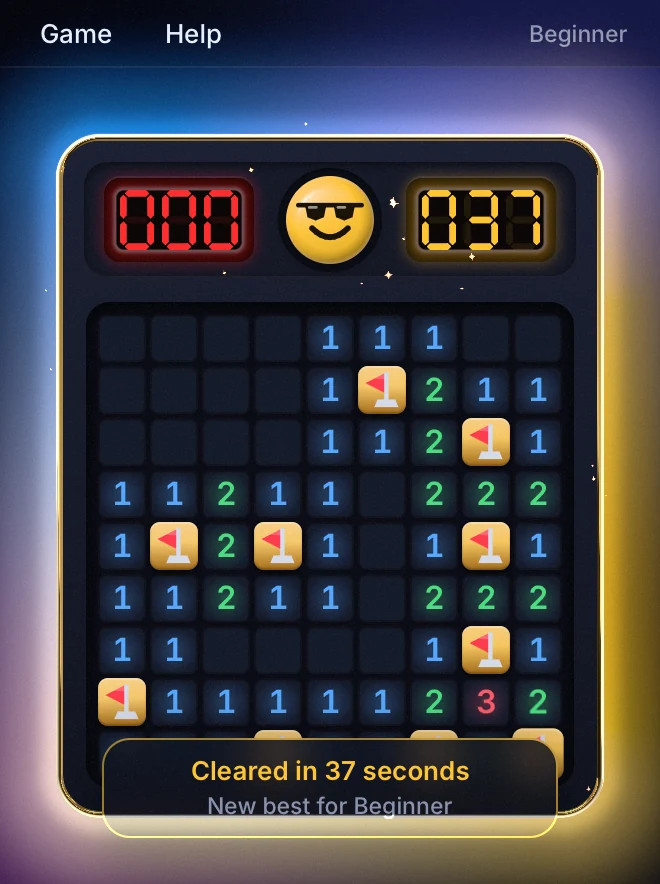
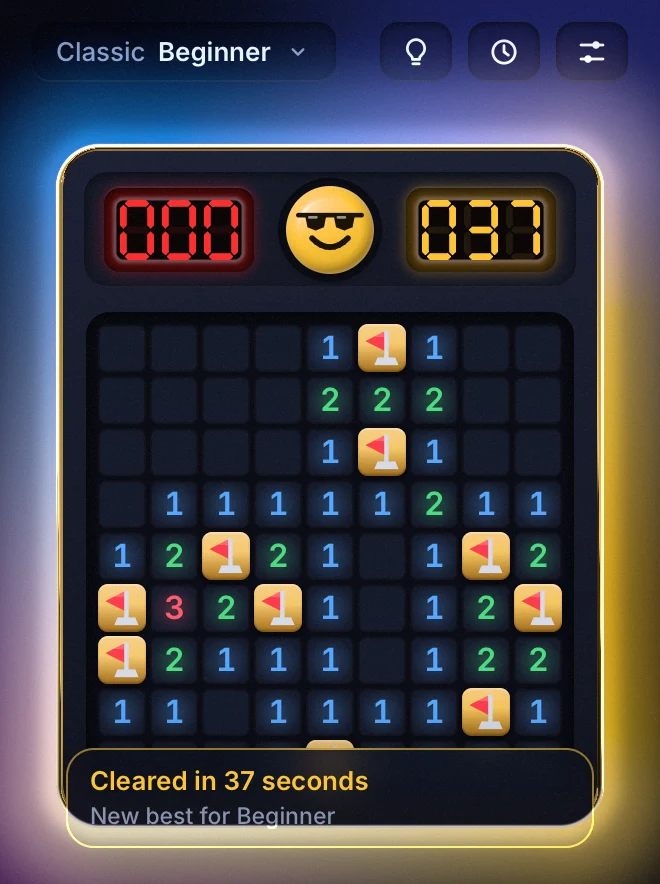
README and media describe the current game
- New stills and animations from the headless scenes: the toolbar,
  the Hint stepped through to Apply, a Review on a missed deduction,
  Max Guess's 50/50 count, the hint in 简体中文, generation's sweep,
  History, and fresh loss, Color off, win and picker shots. The old
  GIFs showed the XP menu bar; all motion is now animated WebP.
- play.json taps cells in the toolbar layout so the first click opens
  an area; hint.json drives the Hint video.
- The review scene selects a missed deduction instead of the opening.
- README: intro, Play (toolbar buttons, Hint, History, Review, H key,
  where History is saved), panels in the motion notes, and how each
  picture is made.

Claude-Session: https://claude.ai/code/session_015t5rc5SNnFMdEsgfNtuQ7n

diff --git a/src/lib.rs b/src/lib.rs
@@ -235,7 +235,7 @@ const SCENES: &[(&str, fn(&mut App))] = &[
         a.set_lang(strings::Lang::ZhCn);
     }),
     // A Review of an Intermediate game played by a bot that pauses and guesses where it
-    // needn't: a needless guess's reason beside the field, the timeline under it.
+    // needn't: a missed deduction's reason beside the field, the timeline under it.
     ("review", |a| {
         // The first seed whose game runs long enough to have a few markers.
         for seed in 1.. {
@@ -246,7 +246,10 @@ const SCENES: &[(&str, fn(&mut App))] = &[
             }
         }
         a.open_review(0);
-        a.review_select(0);
+        // A missed deduction midway shows more of the field than the opening guess.
+        let markers = &a.review.as_ref().unwrap().markers;
+        let k = markers.iter().position(|m| matches!(m.kind, review::Kind::Missed { .. })).unwrap_or(0);
+        a.review_select(k);
     }),
     // A loss through the App, so History has it: the banner offers a Review.
     ("lost-review", |a| {

diff --git a/README.md b/README.md
@@ -2,23 +2,38 @@
 
 Minesweeper with the rules and quirks of the Windows classic, drawn on the GPU with
 [Rune](https://github.com/anomalyco/rune): springs, ripples, liquid-metal chrome, plastic, fire
-and shockwaves.
+and shockwaves. Beyond Classic, it has three modes that lay the field after your first click
+(Gentle No Guess, No Guess, Max Guess), a Hint that teaches the next move in four steps,
+a History of every game with a Review of any of them, and the whole game in English and
+简体中文.
 
 <p align="center">
-  <img src="docs/play.gif" alt="Opening a field" width="330">
-  <img src="docs/boom.gif" alt="Stepping on a mine" width="378">
+  <img src="docs/play.webp" alt="Opening a field, flagging, a press dragged across the field, then F2 and a new field" width="330">
+  <img src="docs/boom.webp" alt="Stepping on a mine: the shockwave and the chain of the other mines" width="378">
 </p>
 
 <p align="center">
-  <img src="docs/expert.webp" alt="Expert" width="100%">
+  <img src="docs/expert.webp" alt="Expert, with the toolbar: the Mode and Level chip, then Hint, History and Settings" width="100%">
 </p>
 <p align="center">
-  <img src="docs/lost.webp" alt="A lost game: the mine burns and the rest come up" width="49%">
-  <img src="docs/mono.webp" alt="Color off" width="49%">
+  <img src="docs/hint.webp" alt="H pressed four times: the technique, the numbers it reads, the cell, the reason; then Apply flags the mine" width="100%">
 </p>
 <p align="center">
-  <img src="docs/won.webp" alt="A won game" width="40%">
-  <img src="docs/picker.webp" alt="The Mode and Level picker" width="40%">
+  <img src="docs/review.webp" alt="A Review: a missed deduction's reason beside the field, the timeline of markers under it" width="49%">
+  <img src="docs/max-guess.webp" alt="Max Guess: the tab on the console says how many forced 50/50s the field holds" width="49%">
+</p>
+<p align="center">
+  <img src="docs/zh-cn.webp" alt="The same hint in 简体中文" width="49%">
+  <img src="docs/generating.webp" alt="An Expert No Guess field generating: the face thinks, and past 600 ms a band of light sweeps the hidden tiles" width="49%">
+</p>
+<p align="center">
+  <img src="docs/lost.webp" alt="A lost game: the mine burns and the rest come up" width="32%">
+  <img src="docs/mono.webp" alt="Color off" width="32%">
+  <img src="docs/history.webp" alt="History, filtered by mode and level, with the fastest win on top" width="32%">
+</p>
+<p align="center">
+  <img src="docs/won.webp" alt="A won game and a new best: the timer turns gold" width="40%">
+  <img src="docs/picker.webp" alt="The picker: four modes, four levels, Custom sizes typed in place" width="40%">
 </p>
 
 ## What moves, and what doesn't
@@ -31,8 +46,9 @@ that couldn't were cut.
   over at most 300 ms. Numbers are there at once; nothing makes you wait to read them. The
   selector sits on the square under the pointer, with no glide to lag behind it.
 - **Flags**: a 150 ms fade. **Keys** (arrows, Space, F, F2, Escape) never animate.
-- **Panels** (the Level picker, Settings) are opened now and then, so they slide down from the
-  toolbar in about 0.2 s; Escape closes one in the same frame.
+- **Panels** (the picker, History, Settings) are opened now and then, so they slide down from the
+  toolbar in about 0.2 s; Escape closes one in the same frame. The Hint's callout changes in place
+  as H steps it.
 - **A new field** from the face or the picker deals in from the centre in under half a second;
   from F2 it's simply there, old field gone in the same frame.
 - **A field that takes its time** (the no-guess modes generate after the first click, off the UI thread):
@@ -169,7 +185,7 @@ The same game as Windows Minesweeper:
 
 - **Left click** opens a square. Press and drag: the square under the pointer stays sunk until you let go, and the face gasps.
 - **Right click** cycles flag → `?` → blank (`?` only with *Marks* on in Settings).
-- **Keyboard**: arrows move the selector, Space opens (or chords on a number), F flags, F2 starts again, Escape closes a panel.
+- **Keyboard**: arrows move the selector, Space opens (or chords on a number), F flags, H asks for a hint, F2 starts again, Escape closes a panel, the hint or a review.
 - **Touch** (the web build): the flag toggle on the toolbar makes taps place flags while it is lit; a tap on a number chords.
 - **Chord**: on a number whose flags are all placed, press both buttons (or the middle one) to open its other neighbours. A wrong flag loses.
 - Mines come from the Microsoft C runtime's `rand()`, seeded once per session from a millisecond clock, as `srand(GetTickCount())`: a column, then a row, each `rand() % n`, redrawn while the square already holds a mine.
@@ -177,12 +193,16 @@ The same game as Windows Minesweeper:
 - The mine counter is mines less flags and goes negative. The timer starts on the first click, at 1, and stops at 999.
 - Losing shows every mine, crosses out wrong flags and marks the one you hit in red. Winning flags the rest.
 - **Modes**: Classic (原版) is everything above, unchanged. In **No Guess** (无猜) no mines exist until your first click; the field is then laid with the 3×3 around the click clear, so it always opens an area, and redrawn until perfect logic (the mine count included) can finish it from there. The field is fully determined by mode, level, seed and first click. It is generated off the UI thread (a thread on desktop, a web worker in the browser), so the window never freezes; F2 or the face cancels it for a fresh field. The timer starts once the field is ready. **Gentle No Guess** (简单无猜) works the same, but only keeps fields that one number, or two overlapping numbers, at a time can finish, with the mine count near the end: pattern play always wins. **Max Guess** (死猜挑战) lays its field the same way, then searches for one that forces a perfect player into as many **true 50/50s** as it can: two cells holding one mine that no number, now or later, can ever tell apart. Everything between them is logic. Once your first click has laid the field, a tab on the console's top edge shows how many it holds; the result banner says how many you got through and, when you lost on one, that it was forced. There is no undo.
-- **Toolbar**: the chip on the left shows the Mode and Level and opens the picker: a row for the Mode, then Beginner (9×9, 10), Intermediate (16×16, 40), Expert (30×16, 99) or Custom, whose width (9–30), height (9–24) and mines (up to (w−1)(h−1)) are typed in place; Enter or the Custom row starts it. Picking starts a new field at once.
-- **Settings** (the button on the right): Marks (?), Color and Language (English or 简体中文). The first launch follows the system language (the browser's on the web): any Chinese locale means 简体中文. Chinese is drawn in Xiaomi's MiSans and Latin letters and digits in Inter, both built in, so Chinese shows on any machine and in the browser.
+- **Toolbar**: the chip on the left shows the Mode and Level and opens the picker: the four Modes two to a row, then Beginner (9×9, 10), Intermediate (16×16, 40), Expert (30×16, 99) or Custom, whose width (9–30), height (9–24) and mines (up to (w−1)(h−1)) are typed in place; Enter or the Custom row starts it. Picking starts a new field at once. On the right: the flag toggle (touch only), then Hint, History and Settings.
+- **Hint** (the bulb, or H), in every mode and as often as you like, with no time penalty. Each press goes one step deeper: the technique and its grade (Easy, Medium, Hard, Evil), then the numbers it reads ringed, then the cell and whether it is safe or a mine, then the reason in words with Apply, which plays the move. Any move starts the next hint afresh; Escape or × closes it. It reads only the open numbers, never your flags, except to say first when a flag is provably wrong. It names the pattern when there is one (1-1, 1-2, 1-2-1, 1-2-2-1, holes, triangles, the corners, reduction, mine counting and the rest of minesweeper.online's catalogue, with the Chinese community's 定式 names in 简体中文), and otherwise explains with the fewest numbers that prove the cell. When nothing can be proven it teaches the guess: a true 50/50 (take it now), a cell that can only lead to another guess (avoid it), a few countable arrangements, fewer-mine arrangements, a cell likely to open an area, and in Classic the top-left corner that XP's first-click move makes riskier. If no such reason applies it says only that a guess is needed. It never shows a probability. A game with a hint shown is recorded as assisted.
+- **History** (the clock): every game won, lost or abandoned after its first click, newest first, filtered by Mode and Level, with the fastest win for that Mode and Level on top. Each row has the date and time, result, seconds, 3BV, clicks, hints and forced guesses faced and survived. Beat the fastest win and the timer turns gold. Records are kept without limit.
+- **Review**: the result banner's Review button (a tab on the console's bottom rim once the banner leaves), or any row in History, replays that game on the field. The timeline under it marks needless guesses, missed deductions, forced guesses and clicks a chord would have saved; ‹ › or the left and right arrows step, and selecting a marker shows the field at that moment with the reason in the hint's words. It also gives 3BV, 3BV/s and efficiency (3BV per click). Escape, F2 or × leaves it; a review never changes the record.
+- **Settings** (the sliders): Marks (?), Color and Language (English or 简体中文). The first launch follows the system language (the browser's on the web): any Chinese locale means 简体中文. Chinese is drawn in Xiaomi's MiSans and Latin letters and digits in Inter, both built in, so Chinese shows on any machine and in the browser.
 - The face starts a new game. `xyzzy`, then Shift, turns the old corner-pixel cheat on or off.
 
-Settings are saved to `%APPDATA%\runesweeper`, `~/Library/Application Support/runesweeper`,
-`~/.config/runesweeper`, or the browser's local storage.
+Settings, History (`history.txt`, one game per line) and the game in play are saved to
+`%APPDATA%\runesweeper`, `~/Library/Application Support/runesweeper`, `~/.config/runesweeper`, or
+the browser's local storage.
 
 `--plain` (desktop) or `?plain` (web) turns the shader effects off for weak GPUs.
 
@@ -207,9 +227,15 @@ Every Rune app renders without a window, which is how the pictures above were ma
 
 ```sh
 runesweeper --list-scenes
-runesweeper --snap expert.png --scene expert --size 868x598 --scale 2
-runesweeper --scene beginner --script scripts/play.json --video play.mp4
+runesweeper --snap expert.png --scene expert --size 868x598 --scale 2 --at 3
+runesweeper --scene beginner --script scripts/play.json --size 330x442 --video play.mp4
+runesweeper --scene intermediate --script scripts/hint.json --size 868x598 --keys --video hint.mp4
 ```
+
+The stills are `expert`, `review`, `max-guess` and `hint-zh-cn` at 868×598, `lost`, `mono` and
+`history` at 504×598, and `won` and `picker` at 330×442, all at scale 2 and 3 s in. The
+animations are the two scripts above, `lost` for 2 s at 504×598 and `generating` for 2.6 s at
+868×598, encoded as animated WebP with ffmpeg's `libwebp_anim`.
 
 ## Agent skills
 
